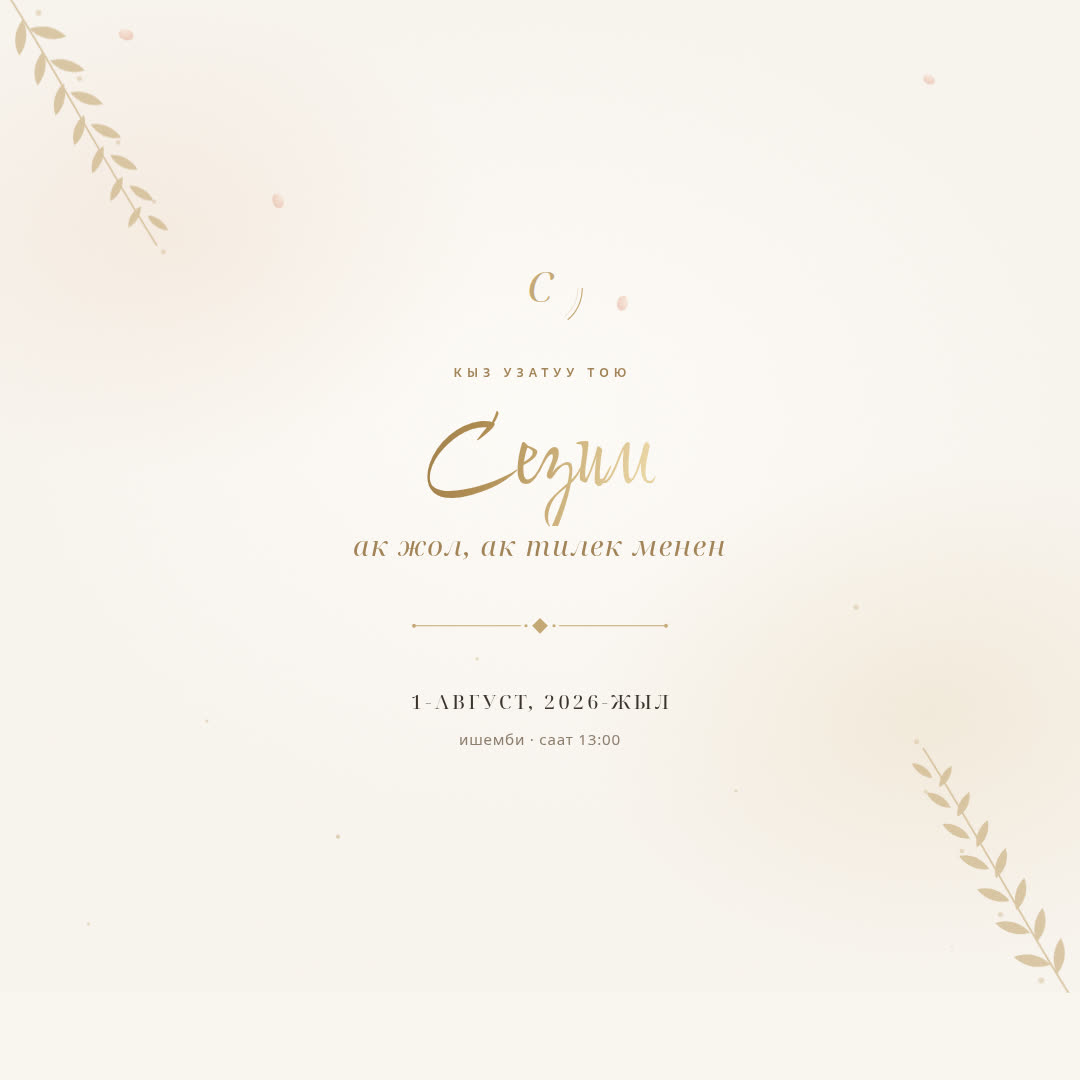
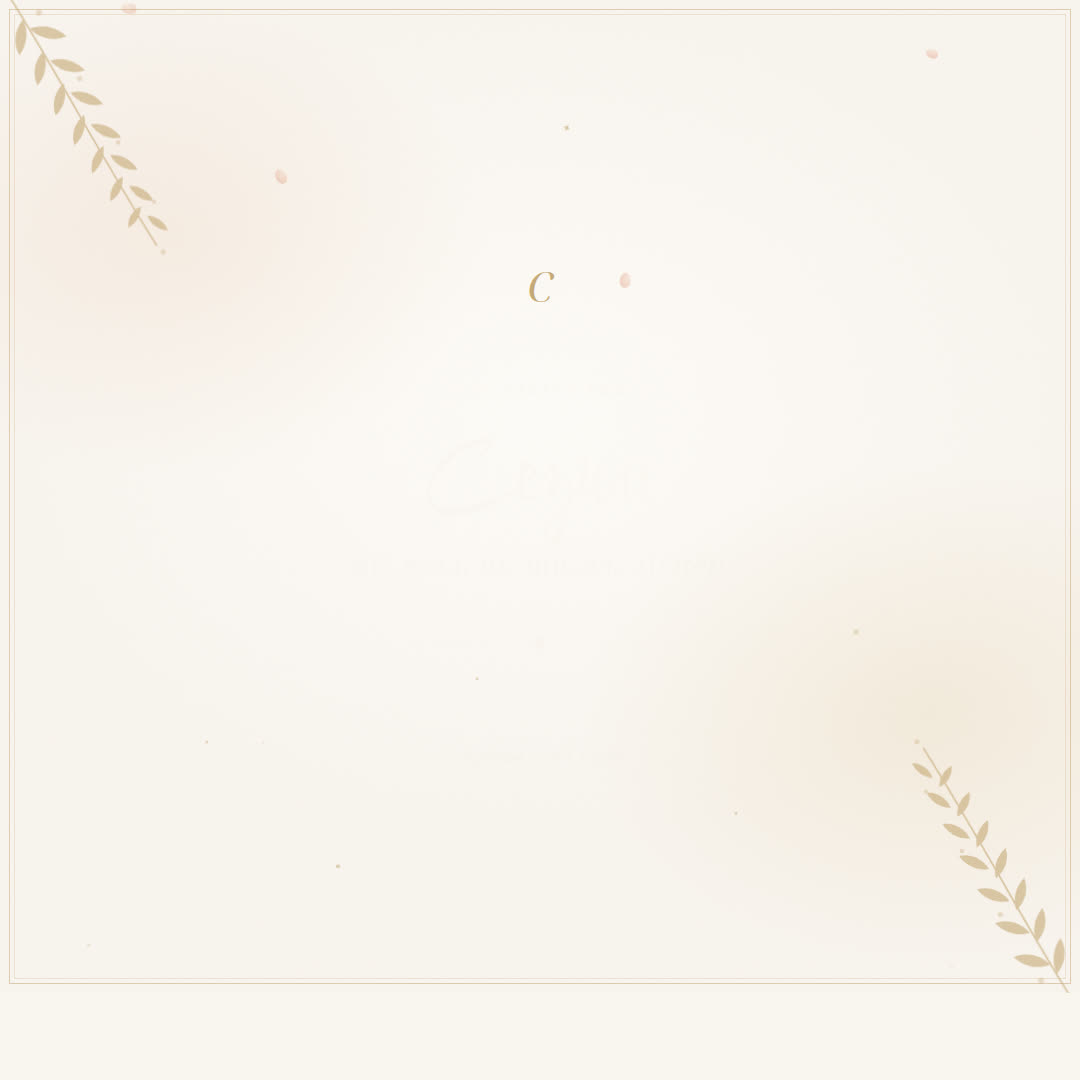
Premium features: passe-partout frame, RSVP choices, calendar button, twinkles
A double hairline frame edges the whole screen like a printed card;
the RSVP section offers accept/decline buttons that prefill different
WhatsApp messages; a Google Calendar button joins the map button;
gold twinkle sparks shimmer on the hero, envelope and bands. Calendar
and map buttons stay hidden in filming mode.

Claude-Session: https://claude.ai/code/session_0116pMaGLiEYq7SYgGuKnSmK

diff --git a/index.html b/index.html
@@ -148,6 +148,24 @@
     50%{transform:translate(-50%,9px)}
   }
 
+  /* мерцающие блики */
+  .twinkles{position:absolute;inset:0;overflow:hidden;pointer-events:none}
+  .twinkles b{
+    position:absolute;font-style:normal;font-weight:400;
+    color:var(--altyn);opacity:0;
+    animation:twinkle ease-in-out infinite;
+  }
+  .band .twinkles b{color:var(--altyn-soft)}
+  @keyframes twinkle{
+    0%,100%{opacity:0;transform:scale(.5) rotate(0deg)}
+    50%{opacity:.85;transform:scale(1.1) rotate(40deg)}
+  }
+  .twinkles b:nth-child(1){left:16%;top:22%;font-size:13px;animation-duration:4.2s;animation-delay:.5s}
+  .twinkles b:nth-child(2){left:82%;top:16%;font-size:10px;animation-duration:5.1s;animation-delay:2s}
+  .twinkles b:nth-child(3){left:70%;top:64%;font-size:14px;animation-duration:4.6s;animation-delay:3.4s}
+  .twinkles b:nth-child(4){left:24%;top:74%;font-size:10px;animation-duration:5.6s;animation-delay:1.2s}
+  .twinkles b:nth-child(5){left:52%;top:12%;font-size:11px;animation-duration:4.9s;animation-delay:4.4s}
+
   /* лепестки, плывущие вниз */
   .petals{position:absolute;inset:0;overflow:hidden;pointer-events:none}
   .petals i{
@@ -338,10 +356,16 @@
     text-decoration:none;transition:all .25s ease;
   }
   .btn svg{width:19px;height:19px;flex:none}
-  .btn-outline{border:1.5px solid var(--altyn);color:var(--ink);margin-top:30px}
+  .btn-outline{border:1.5px solid var(--altyn);color:var(--ink);margin-top:30px;margin-inline:6px}
   .btn-outline:hover{background:rgba(185,134,47,.12)}
   .btn-light{background:var(--boz);color:var(--kyzyl-deep);margin-top:28px;box-shadow:0 4px 18px rgba(0,0,0,.22)}
   .btn-light:hover{transform:translateY(-2px);box-shadow:0 8px 26px rgba(0,0,0,.3)}
+  .btn-ghost{
+    border:1.5px solid rgba(246,240,228,.55);color:rgba(246,240,228,.9);
+    margin-top:14px;padding:12px 24px;font-size:.88rem;
+  }
+  .btn-ghost:hover{background:rgba(246,240,228,.12)}
+  .rsvp-btns{display:flex;flex-direction:column;align-items:center}
 
   /* ── RSVP ─────────────────────────────────── */
   .rsvp p{max-width:420px;margin:0 auto;color:rgba(246,240,228,.85)}
@@ -355,6 +379,16 @@
   .foot-tunduk{width:46px;color:var(--altyn);margin:0 auto 18px}
   .foot-pre{font-family:var(--serif);font-style:italic;color:var(--muted);font-size:1.02rem;margin-bottom:4px}
   .foot-line{font-family:var(--serif);font-size:clamp(1.25rem,5vw,1.6rem);max-width:420px;margin:0 auto}
+
+  /* ── ПАСПАРТУ-РАМКА ───────────────────────── */
+  .pframe{
+    position:fixed;inset:9px;z-index:110;pointer-events:none;
+    border:1px solid rgba(198,170,118,.55);
+  }
+  .pframe::after{
+    content:"";position:absolute;inset:4px;
+    border:1px solid rgba(198,170,118,.25);
+  }
 
   /* ── КОНВЕРТ (заставка) ───────────────────── */
   body.env-locked{overflow:hidden}
@@ -514,7 +548,7 @@
     padding:40px 24px;
   }
   body.video-mode .wrap{width:100%}
-  body.video-mode .rsvp,body.video-mode #map-btn,
+  body.video-mode .rsvp,body.video-mode #map-btn,body.video-mode #cal-btn,
   body.video-mode .music-btn,body.video-mode .scroll-cue{display:none}
   /* экран-конверт в режиме съёмки: без лишних надписей, имя крупнее */
   body.video-mode .env-hint,body.video-mode .env-t-main{display:none}
@@ -549,7 +583,7 @@
     .anim,.scroll-cue,body.opened .anim,body.opened .scroll-cue{animation:none;opacity:1}
     .tk-draw,body.opened .tk-draw{animation:none;stroke-dashoffset:0}
     .reveal{opacity:1;transform:none;transition:none}
-    .hero-sparks,.petals{display:none}
+    .hero-sparks,.petals,.twinkles{display:none}
     #name-main{animation:none}
     .env-seal::after{animation:none;display:none}
     .cd-num.tick{animation:none}
@@ -566,12 +600,14 @@
 </style>
 </head>
 <body class="env-locked">
+<div class="pframe" aria-hidden="true"></div>
 
 <!-- ═══ КОНВЕРТ (заставка) ═══ -->
 <div class="env-screen" id="env-screen">
   <svg class="flora f-tl" viewBox="0 0 220 260" fill="none" aria-hidden="true"><use href="#branch-src"/></svg>
   <svg class="flora f-br" viewBox="0 0 220 260" fill="none" aria-hidden="true"><use href="#branch-src"/></svg>
   <div class="petals" aria-hidden="true"><i></i><i></i><i></i><i></i><i></i><i></i></div>
+  <div class="twinkles" aria-hidden="true"><b>✦</b><b>✦</b><b>✦</b><b>✦</b><b>✦</b></div>
   <p class="env-title" id="env-title"><span class="env-t-main">Сизге чакыруу келди</span><small>Сезим · Кыз узатуу тою</small></p>
   <button class="env" id="envelope" type="button" aria-label="Конвертти ачуу">
     <span class="env-back"></span>
@@ -595,6 +631,7 @@
 <header class="hero">
   <div class="hero-sparks" aria-hidden="true"><i></i><i></i><i></i><i></i><i></i><i></i><i></i><i></i><i></i></div>
   <div class="petals" aria-hidden="true"><i></i><i></i><i></i><i></i><i></i><i></i></div>
+  <div class="twinkles" aria-hidden="true"><b>✦</b><b>✦</b><b>✦</b><b>✦</b><b>✦</b></div>
   <svg class="flora f-tl" viewBox="0 0 220 260" fill="none" aria-hidden="true"><use href="#branch-src"/></svg>
   <svg class="flora f-br" viewBox="0 0 220 260" fill="none" aria-hidden="true"><use href="#branch-src"/></svg>
 
@@ -647,6 +684,7 @@
 
 <!-- ═══ ОБРАТНЫЙ ОТСЧЁТ ═══ -->
 <section class="band reveal" id="countdown">
+  <div class="twinkles" aria-hidden="true"><b>✦</b><b>✦</b><b>✦</b><b>✦</b><b>✦</b></div>
   <svg class="band-flora bf-tl" viewBox="0 0 220 260" fill="none" aria-hidden="true"><use href="#branch-src"/></svg>
   <svg class="band-flora bf-br" viewBox="0 0 220 260" fill="none" aria-hidden="true"><use href="#branch-src"/></svg>
   <svg class="band-mark" viewBox="0 0 200 200" fill="none" stroke="currentColor" aria-hidden="true"><use href="#tunduk-src"/></svg>
@@ -665,6 +703,7 @@
 
 <!-- ═══ АК БАТА (показывается вместо отсчёта в режиме съёмки ?video) ═══ -->
 <section class="band blessing reveal">
+  <div class="twinkles" aria-hidden="true"><b>✦</b><b>✦</b><b>✦</b><b>✦</b><b>✦</b></div>
   <svg class="band-flora bf-tl" viewBox="0 0 220 260" fill="none" aria-hidden="true"><use href="#branch-src"/></svg>
   <svg class="band-flora bf-br" viewBox="0 0 220 260" fill="none" aria-hidden="true"><use href="#branch-src"/></svg>
   <svg class="band-mark" viewBox="0 0 200 200" fill="none" stroke="currentColor" aria-hidden="true"><use href="#tunduk-src"/></svg>
@@ -704,6 +743,10 @@
       <div class="row"><span class="lbl">Убактысы</span><span class="val" id="det-time">13:00</span></div>
       <div class="row"><span class="lbl">Жери</span><span class="val" id="det-venue">«Байтик» рестораны<small id="det-address">Семетей айылы</small></span></div>
     </div>
+    <a class="btn btn-outline" id="cal-btn" href="#" target="_blank" rel="noopener">
+      <svg viewBox="0 0 24 24" fill="none" aria-hidden="true"><rect x="3.5" y="5" width="17" height="15.5" rx="2.5" stroke="currentColor" stroke-width="1.8"/><path d="M3.5 9.5 H20.5 M8 3 V6.5 M16 3 V6.5 M12 12.5 V17 M9.8 14.8 H14.3" stroke="currentColor" stroke-width="1.8" stroke-linecap="round"/></svg>
+      Календарга кошуу
+    </a>
     <a class="btn btn-outline" id="map-btn" href="#" target="_blank" rel="noopener">
       <svg viewBox="0 0 24 24" fill="none" aria-hidden="true"><path d="M12 21.3 C12 21.3 5 15.7 5 10.2 A7 7 0 1 1 19 10.2 C19 15.7 12 21.3 12 21.3 Z" stroke="currentColor" stroke-width="1.8"/><circle cx="12" cy="10" r="2.6" stroke="currentColor" stroke-width="1.8"/></svg>
       Картадан ачуу
@@ -724,10 +767,13 @@
     Салтанаттуу ак дасторкон үстүндө,<br>
     Бакыт каалап батаңызды бериңиз!</p>
     <p>Сураныч, катышууңузду <span id="rsvp-deadline">25-июлга чейин</span> билдирип коюңуз — сиздерди жакшылап тосуп алалы.</p>
-    <a class="btn btn-light" id="wa-btn" href="#" target="_blank" rel="noopener">
-      <svg viewBox="0 0 24 24" fill="none" aria-hidden="true"><path d="M21 11.6 C21 16.2 17 19.9 12.1 19.9 C10.7 19.9 9.4 19.6 8.2 19.1 L3.5 20.5 L5 16.4 C4 15 3.3 13.4 3.3 11.6 C3.3 7 7.3 3.3 12.1 3.3 C17 3.3 21 7 21 11.6 Z" stroke="currentColor" stroke-width="1.8" stroke-linejoin="round"/></svg>
-      WhatsApp аркылуу жазуу
-    </a>
+    <div class="rsvp-btns">
+      <a class="btn btn-light" id="wa-yes" href="#" target="_blank" rel="noopener">
+        <svg viewBox="0 0 24 24" fill="none" aria-hidden="true"><path d="M21 11.6 C21 16.2 17 19.9 12.1 19.9 C10.7 19.9 9.4 19.6 8.2 19.1 L3.5 20.5 L5 16.4 C4 15 3.3 13.4 3.3 11.6 C3.3 7 7.3 3.3 12.1 3.3 C17 3.3 21 7 21 11.6 Z" stroke="currentColor" stroke-width="1.8" stroke-linejoin="round"/></svg>
+        Албетте, барабыз! ✨
+      </a>
+      <a class="btn btn-ghost" id="wa-no" href="#" target="_blank" rel="noopener">Тилекке каршы, бара албайбыз</a>
+    </div>
   </div>
 </section>
 
@@ -829,7 +875,8 @@ const CONFIG = {
   mapUrl: "https://www.google.com/maps/search/?api=1&query=%D0%91%D0%B0%D0%B9%D1%82%D0%B8%D0%BA%20%D1%80%D0%B5%D1%81%D1%82%D0%BE%D1%80%D0%B0%D0%BD%20%D0%A1%D0%B5%D0%BC%D0%B5%D1%82%D0%B5%D0%B9",  // замени на точку в 2GIS / Google Maps
 
   whatsappPhone: "996700123456",              // номер без "+" и пробелов — ЗАМЕНИ НА РЕАЛЬНЫЙ
-  whatsappText: "Саламатсызбы! Мен Сезимдин кыз узатуу тоюна катышам ✨",
+  whatsappYes: "Саламатсызбы! Биз Сезимдин кыз узатуу тоюна сөзсүз катышабыз ✨",
+  whatsappNo: "Саламатсызбы! Тилекке каршы, тойго катыша албайбыз, кечирим сурайбыз 🙏",
   rsvpDeadline: "25-июлга чейин",
 
   // Музыка: mp3-файл рядом с index.html; "" — отключить совсем
@@ -852,8 +899,18 @@ $("det-venue").firstChild.textContent = CONFIG.venue;
 $("det-address").textContent = CONFIG.address;
 $("rsvp-deadline").textContent = CONFIG.rsvpDeadline;
 $("map-btn").href = CONFIG.mapUrl;
-$("wa-btn").href = "https://wa.me/" + CONFIG.whatsappPhone +
-                   "?text=" + encodeURIComponent(CONFIG.whatsappText);
+$("wa-yes").href = "https://wa.me/" + CONFIG.whatsappPhone + "?text=" + encodeURIComponent(CONFIG.whatsappYes);
+$("wa-no").href  = "https://wa.me/" + CONFIG.whatsappPhone + "?text=" + encodeURIComponent(CONFIG.whatsappNo);
+// «Календарга кошуу»: событие в Google Calendar (13:00–22:00 по Бишкеку)
+{
+  const s = new Date(CONFIG.dateISO), e = new Date(s.getTime() + 9 * 3600e3);
+  const fmt = d => d.toISOString().replace(/[-:]|\.\d{3}/g, "");
+  $("cal-btn").href = "https://calendar.google.com/calendar/render?action=TEMPLATE" +
+    "&text=" + encodeURIComponent(CONFIG.celebrant + " — Кыз узатуу тою") +
+    "&dates=" + fmt(s) + "/" + fmt(e) +
+    "&location=" + encodeURIComponent(CONFIG.venue + ", " + CONFIG.address) +
+    "&details=" + encodeURIComponent("Кыз узатуу тою! " + CONFIG.dateText + ", саат " + CONFIG.timeText);
+}
 document.title = CONFIG.celebrant + " — Кыз узатуу тою";
 
 // Обратный отсчёт (с лёгкой анимацией смены цифр)